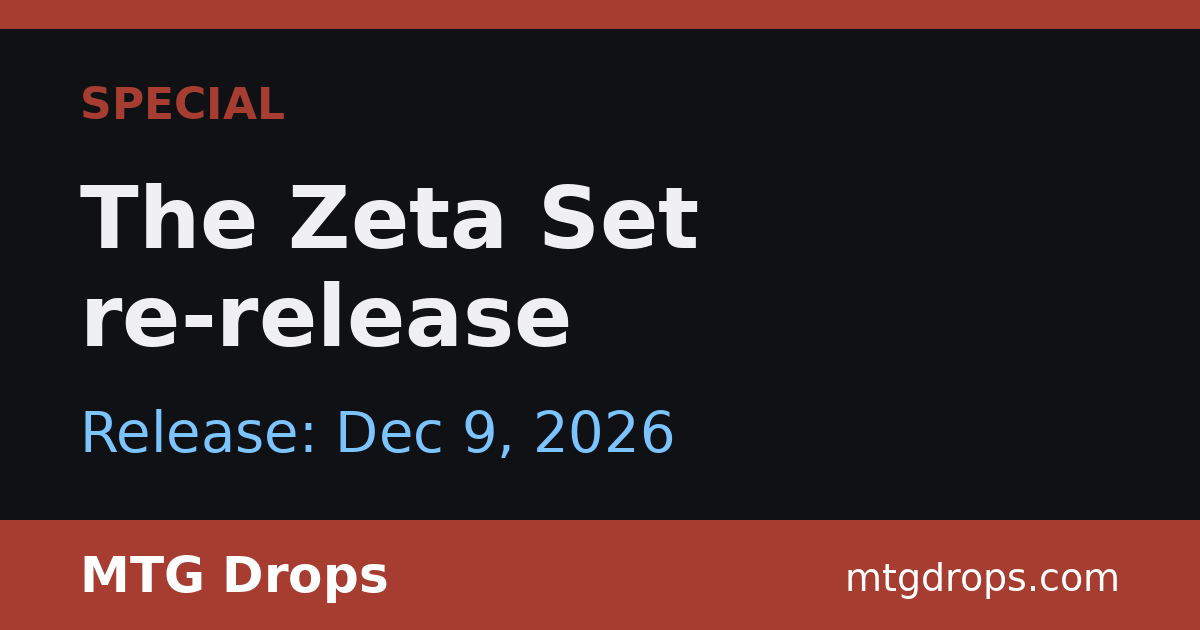
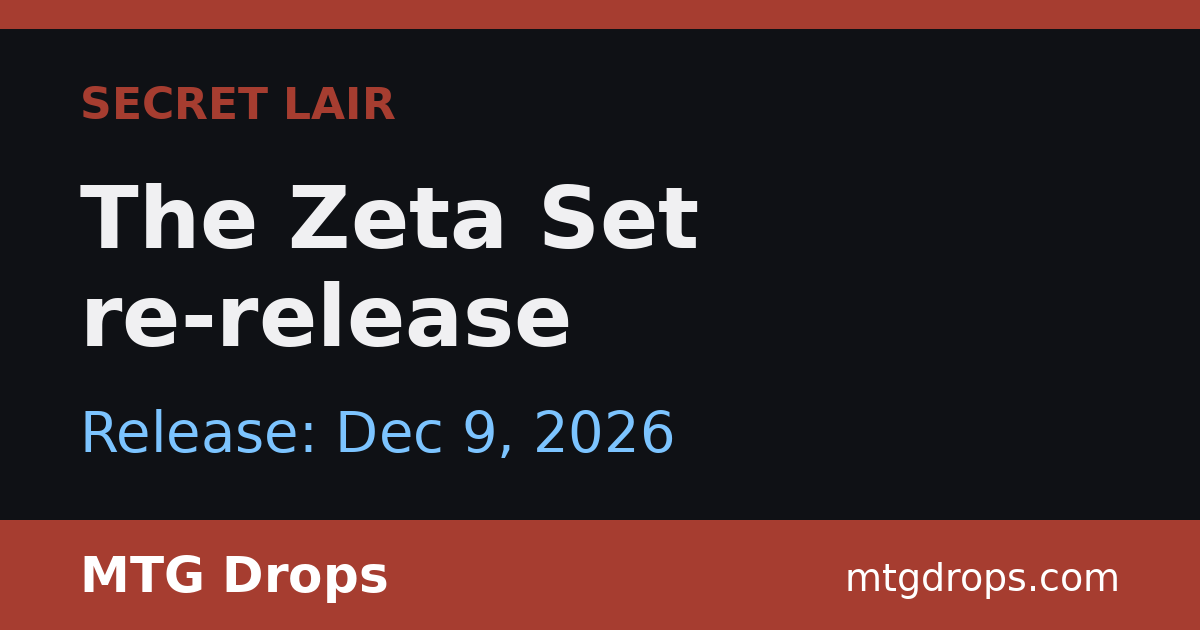
Draft: expand Zeta Set re-release and Spider-Mania leak pages
Zeta (Dec 9): official $19.92, 24-hour fulfilled window, 2H 2027 shipping, contents and Pauper notes from Wizards. Spider-Mania: keep Wait; label leaked date, commanders, contents and typical-MSRP comparison as unconfirmed with named sources. Not for merge until the owner OKs it.

Changed region(s): [[0.0925, 0.1206, 0.3392, 0.2111]]

diff --git a/build.py b/build.py
@@ -1018,6 +1018,122 @@ def _assert_published_picks(html_text, which):
     if "One drop:" not in which or "Two drops:" not in which: raise SystemExit("which-drops FAQ is missing the one/two labels")
     for line in PHASERS_UNPUBLISHED:
         if line in html_text or line in which: raise SystemExit("unpublished opinion rendered: " + line)
+
+# ---- Zeta Set re-release and Spider-Mania expansions (draft, Nov 24, 2026).
+# Official facts only from Wizards / Secret Lair sources. Spider-Mania leak details
+# are labeled as leaks and name their press sources. No new Buy/Skip verdicts.
+ZETA_ANN = "https://magic.wizards.com/en/news/announcements/chaos-vault-the-zeta-set-puts-the-playtest-in-your-hands"
+ZETA_UPDATE = "https://magic.wizards.com/en/news/announcements/an-update-on-the-zeta-set-sale"
+ZETA_PAUPER = "https://magic.wizards.com/en/news/announcements/on-the-zeta-set-in-pauper"
+SPM_WIKI = "https://mtg.wiki/page/Template:Upcoming_events"
+SPM_POLYGON = "https://www.polygon.com/magic-mtg-spider-man-commander-deck-christmas/"
+SPM_GAMER = "https://www.thegamer.com/magic-the-gathering-spider-man-commander-deck-leak/"
+ZETA_SPM_CHECKED = "Nov 24, 2026"
+
+def zeta_expand(r):
+    ann, upd, pau = phasers_link(ZETA_ANN, "Sep 1, 2026 announcement"), phasers_link(ZETA_UPDATE, "Oct 1, 2026 update"), phasers_link(ZETA_PAUPER, "On The Zeta Set in Pauper")
+    store = phasers_link(SL_STORE, "MagicSecretLair.com")
+    lead = (
+        f"<p><b>Quick answer (checked {ZETA_SPM_CHECKED}):</b> Secret Lair x MSCHF: The Zeta Set goes on sale again "
+        f"on Dec 9, 2026, for a single 24-hour order window at $19.92 on {store}. Wizards says everyone who orders "
+        f"during that window will have the order fulfilled. Estimated shipping is the second half of 2027. "
+        f"Sources: {ann} and {upd}.</p>")
+    mid = (
+        f"<h2>How the Dec 9 order window works</h2>"
+        f"<p>Per Wizards' {upd}, the re-release is a single 24-hour limited order window on Dec 9, 2026, at {store}. "
+        "Every order placed during that window will be fulfilled, so it is not a race for a fixed pile of leftover stock.</p>"
+        "<p>Wizards has not published a start time for the window, and has not announced a purchase limit. "
+        "Unofficial write-ups sometimes mention 9 AM PT; that hour is not in the Wizards articles, so it is not listed here as a fact. "
+        "Check the official store on Dec 9, or add the date to your calendar below.</p>"
+        f"<h2>When will it ship?</h2>"
+        f"<p>Wizards estimates these Dec 9 orders will begin shipping in the second half of 2027, and says more timing "
+        f"details will come closer to the sale ({upd}). That is not a Christmas 2026 gift.</p>")
+    deepen = (
+        f"<h2>Is the Zeta Set legal, and what about Pauper?</h2>"
+        f"<p>These are reprints with playtest-inspired treatments. The {ann} notes that common cards from this release "
+        f"will affect Pauper legality. In the {pau} article (Sep 4, 2026), Gavin Verhey wrote for the Pauper Format Panel "
+        "that the twelve cards printed at common for the first time in this set are legal in tabletop Pauper as of Sep 7, 2026 "
+        "(Magic Online followed on Sep 23, 2026). Narcomoeba and Price of Progress were banned from Pauper when that took effect.</p>"
+        f"<h2>Add Dec 9 to your calendar</h2>"
+        f"<p>The re-release is already on our calendar as an all-day event on Dec 9, 2026, because Wizards has not published a start hour. "
+        f"{ics_link('calendar.ics')} for every release, or {ics_link('secret-lair.ics')} for Secret Lair dates only.</p>")
+    faqs = [
+        ("When does the Zeta Set go on sale again?",
+         f"On Dec 9, 2026, for a single 24-hour limited order window at {store}. Wizards says everyone who orders during that window will have it fulfilled. Source: {upd}."),
+        ("How much is the Zeta Set?",
+         f"$19.92 at {store}, per Wizards' {ann}."),
+        ("What time does the Zeta Set window open?",
+         "Wizards has confirmed a 24-hour window on Dec 9, 2026, but has not published a start time. We are not treating unofficial 9 AM PT mentions as official."),
+        ("When will Zeta Set orders ship?",
+         f"Wizards estimates Dec 9 orders will begin shipping in the second half of 2027, with more timing details closer to the sale. Source: {upd}."),
+        ("Is there a purchase limit?",
+         "Wizards has not announced a purchase limit for the Dec 9 window."),
+        ("Will the Zeta Set arrive by Christmas?",
+         "No. Wizards estimates these orders will begin shipping in the second half of 2027, so this is not a Christmas 2026 gift."),
+        (f"Should I buy {short_name(r)}?", E(r["note"])),
+        ("What's in the Zeta Set?",
+         "Each copy is one Zeta Booster with 7 randomized cards: 3 commons, 2 uncommons, 1 wildcard of any rarity, and 1 rare or mythic rare. There are 121 different cards in the set. Most use a black-and-white photocopy treatment; 10% are photocopy negative and 5% have the color banding treatment. Source: Wizards' Sep 1, 2026 announcement."),
+    ]
+    return lead, mid, deepen, faqs
+
+def spider_mania_expand(r):
+    poly, gamer, wiki = phasers_link(SPM_POLYGON, "Polygon (Sep 25, 2026)"), phasers_link(SPM_GAMER, "TheGamer (Sep 28, 2026)"), phasers_link(SPM_WIKI, "mtg.wiki")
+    lead = (
+        f"<p><b>Quick answer (checked {ZETA_SPM_CHECKED}):</b> Wizards of the Coast has not officially announced a Spider-Mania Commander deck. "
+        f"A leak, first posted by @MTGOSalseo on X and reported by {poly} and {gamer}, gives a date of Dec 4, 2026. "
+        f"{wiki}'s upcoming-events list marks that date as tentative. Treat every detail below as unconfirmed until Wizards publishes it.</p>")
+    mid = (
+        "<h2>Is Spider-Mania real? What Wizards has (and hasn't) confirmed</h2>"
+        "<table><tr><th>Detail</th><th>Status</th><th>Source</th></tr>"
+        f"<tr><td>Official announcement of a Spider-Mania Commander deck</td><td>None found</td><td>No match on magic.wizards.com as of {ZETA_SPM_CHECKED}</td></tr>"
+        f"<tr><td>Product name “Spider-Mania”</td><td>Leak / rumor</td><td>@MTGOSalseo on X, reported by {poly} and {gamer}</td></tr>"
+        f"<tr><td>Release date Dec 4, 2026</td><td>Leak; listed as tentative</td><td>Same leak; {wiki} upcoming events (tentative)</td></tr>"
+        f"<tr><td>Commanders, colors, card counts, Collector’s Edition</td><td>Leak / rumor</td><td>Same press reports of the leak</td></tr>"
+        f"<tr><td>MSRP</td><td>Not in the leak; not announced</td><td>{gamer}: no price is listed in the leak</td></tr>"
+        "<tr><td>Preorder or retailer ship date</td><td>None published</td><td>—</td></tr>"
+        "</table>"
+        "<h2>Leaked contents and commanders</h2>"
+        f"<p>The following details are from the leak reported by {poly} and {gamer}. They are not official.</p>"
+        "<ul>"
+        "<li><b>Name:</b> Spider-Mania (leak)</li>"
+        f"<li><b>Colors:</b> Jeskai (white, blue, and red), per {poly}</li>"
+        f"<li><b>Face commander:</b> Spider-Man / Peter Parker (leak; {poly}, {gamer})</li>"
+        f"<li><b>Backup commanders:</b> Miles Morales and Spider-Gwen / Gwen Stacy (leak; same)</li>"
+        "<li><b>Cards with new art:</b> 50, of which 30 are new cards and 20 are reprints from Marvel’s Spider-Man and Marvel Super Heroes (leak; same)</li>"
+        "</ul>"
+        "<h2>Leaked price: regular vs collector edition</h2>"
+        f"<p>No price appears in the leak itself, per {gamer}. Until Wizards lists an MSRP, the price table on this page stays TBA.</p>"
+        f"<p>{gamer} noted that Universes Beyond precons typically have an MSRP of about $74.99 for the regular deck and $159.99 for the Collector’s Edition. "
+        "That is a comparison to other products, not a leaked or official Spider-Mania price.</p>"
+        f"<p>{poly} reported that the leak also describes a Collector’s Edition in which all cards use the surge foil treatment. That edition is also unconfirmed.</p>")
+    darkhold = next((x for x in data if x["slug"] == "marvel-darkhold-destiny-commander"), None)
+    kit = next((x for x in data if x["slug"] == "countdown-kit-marvels-history-of-heroes"), None)
+    rel_bits = []
+    if darkhold: rel_bits.append(f'{plink(darkhold)} (2027)')
+    if kit: rel_bits.append(plink(kit))
+    rel_bits.append(f'<a href="{BASE}/guides/mtg-releases-fall-holiday-2026.html">every MTG product releasing this fall/holiday 2026</a>')
+    deepen = (
+        "<h2>Will it arrive by Christmas?</h2>"
+        "<p>Unknown. Wizards has not announced the product, and no retailer has published a ship date that we can cite. Do not count on it as a Christmas gift.</p>"
+        "<p>Related: " + ", ".join(rel_bits) + ".</p>")
+    faqs = [
+        ("Is the Spider-Mania Commander deck real?",
+         f"It is unconfirmed. Wizards has not announced it. A leak first posted by @MTGOSalseo on X, and reported by {poly} and {gamer}, describes the deck; {wiki} lists a tentative Dec 4, 2026 date. Last checked {ZETA_SPM_CHECKED}."),
+        ("When does the Spider-Man Commander deck come out?",
+         f"The leaked date is Dec 4, 2026. Wizards has not confirmed a release date. Sources: {poly}, {gamer}; {wiki} marks the date as tentative."),
+        ("How much will Spider-Mania cost?",
+         f"Wizards has not listed an MSRP, and {gamer} says no price appears in the leak. TheGamer noted that Universes Beyond precons typically cost about $74.99 regular / $159.99 Collector’s Edition; that is not a Spider-Mania price. This page keeps the price as TBA."),
+        ("Who are the Spider-Mania commanders?",
+         f"Only according to the leak: Peter Parker / Spider-Man as the face commander, with Miles Morales and Spider-Gwen / Gwen Stacy as backups, in Jeskai (white, blue, and red). Sources: {poly}, {gamer}. Not confirmed by Wizards."),
+        ("Is there a collector / foil edition?",
+         f"The leak, as reported by {poly}, describes a Collector’s Edition in which all cards are surge foil. Wizards has not confirmed it."),
+        ("Can I preorder Spider-Mania?",
+         "No official preorder is up. Wizards has not announced the product, so there is nothing official to preorder yet."),
+        (f"Should I buy {short_name(r)}?", E(r["note"])),
+        ("Is Commander also called EDH?", "Yes. Commander is also called EDH."),
+    ]
+    return lead, mid, deepen, faqs
+
 for r in data:
     sn = short_name(r); pu = f"{SITE_URL}/p/{r['slug']}.html"
     win = f"<p><b>Window:</b> {E(r['window'])}</p>" if r.get("window") else ""
@@ -1055,6 +1171,7 @@ for r in data:
                     "Yes, in some regions. Per Wizards' Nov 5, 2026 update, North American Commander decks may ship or arrive after the Nov 13 tabletop release. English decks in Europe may also arrive after Nov 13; French and German decks may arrive after Prerelease. Check your retailer or preorder ship date."))
     if r["type"] == "Commander Precon":
         faq.append(("Is Commander also called EDH?", "Yes. Commander is also called EDH."))
+    lead_html = mid_html = ""
     deepen_html = ""
     phasers_ld = []
     if r["slug"] == PHASERS_SLUG:
@@ -1069,6 +1186,16 @@ for r in data:
         faqhtml = "<h2>FAQ</h2>" + "".join(f"<h3>{E(q)}</h3><p>{a}</p>" for q, a in shown)
         phasers_ld = [{"@context": "https://schema.org", "@type": "FAQPage", "mainEntity": [
             {"@type": "Question", "name": q, "acceptedAnswer": {"@type": "Answer", "text": plain(a)}} for q, a in shown]}] + itemlists
+    elif r["slug"] == "zeta-set-rerelease":
+        lead_html, mid_html, deepen_html, shown = zeta_expand(r)
+        faqhtml = "<h2>FAQ</h2>" + "".join(f"<h3>{E(q)}</h3><p>{a}</p>" for q, a in shown)
+        phasers_ld = [{"@context": "https://schema.org", "@type": "FAQPage", "mainEntity": [
+            {"@type": "Question", "name": q, "acceptedAnswer": {"@type": "Answer", "text": plain(a)}} for q, a in shown]}]
+    elif r["slug"] == "spider-mania-commander":
+        lead_html, mid_html, deepen_html, shown = spider_mania_expand(r)
+        faqhtml = "<h2>FAQ</h2>" + "".join(f"<h3>{E(q)}</h3><p>{a}</p>" for q, a in shown)
+        phasers_ld = [{"@context": "https://schema.org", "@type": "FAQPage", "mainEntity": [
+            {"@type": "Question", "name": q, "acceptedAnswer": {"@type": "Answer", "text": plain(a)}} for q, a in shown]}]
     else:
         faqhtml = "<h2>FAQ</h2>" + "".join(f"<h3>{E(q)}</h3><p>{E(a)}</p>" for q, a in faq)
         if r["type"] == "Commander Precon" or r["slug"] == "countdown-kit-marvels-history-of-heroes":
@@ -1133,7 +1260,7 @@ for r in data:
     crumbs = f'<nav class=bc aria-label=Breadcrumb><a href="{BASE}/">MTG Drops</a> › {(f'<a href="{BASE}/secret-lair.html">Secret Lair</a>' if r["type"] == "Secret Lair" else E(r["type"]))} › {E(sn)}</nav>{hubl}'
     desc = r.get("meta_desc") or f"{sn} release date: {nice_date(r)}. " + r["note"]
     page(title_for(r), desc,
-         f'{crumbs}<span class=t>{E(r["type"])}</span><h1>{E(r["name"])}</h1><p><b>Release:</b> {nice_date(r)} ({E(r["status"])}){f" · <b>Prerelease:</b> {E(r['prerelease'])}" if r.get("prerelease") else ""}{" · <b>Sold out</b> at the official store" if r.get("sold_out") else ""}{" · <b>Delayed</b>: stock may arrive after this date" if r.get("delayed") else ""}</p>{win}<h2>Price</h2>{ptab}{contents}{facts}<h2>Buy or skip?</h2><p>{E(r["note"])}{(" " + E(r["buy_guide_intro"])) if r.get("buy_guide_intro") else ""}</p>{("<ul>" + "".join(f"<li><b>{E(k)}:</b> {E(v)}</li>" for k, v in r["buy_guide"]) + "</ul>") if r.get("buy_guide") else ""}{pre_html}{f"<p><i>{E(r['preorder_call'])}</i></p>" if r.get("preorder_call") else ""}{("<p>Other Commander decks coming in 2027: " + ", ".join(plink(x, x["name"]) + f" ({nice_date(x)})" for x in h_cmd27 if x is not r) + ".</p>") if r.get("preorder_call") and r in h_cmd27 else ""}{deepen_html}<p><a href="{tcg(r.get("tcg_query") or r["name"])}" rel="sponsored nofollow">Check prices on TCGplayer</a></p>{amz_btn(r)}<p class=disc><small>{DISCLOSURE_HTML}</small></p>{tinfo}{howto}{relhtml}{y27}{faqhtml}<p><small>Source: <a href="{E(r["source"])}">{E(r["source"])}</a></small></p>{fsrc}{checked(r, with_sources=False)}<p><small>Last updated: {tdate()}</small></p>{FORM}',
+         f'{crumbs}<span class=t>{E(r["type"])}</span><h1>{E(r["name"])}</h1><p><b>Release:</b> {nice_date(r)} ({E(r["status"])}){f" · <b>Prerelease:</b> {E(r['prerelease'])}" if r.get("prerelease") else ""}{" · <b>Sold out</b> at the official store" if r.get("sold_out") else ""}{" · <b>Delayed</b>: stock may arrive after this date" if r.get("delayed") else ""}</p>{win}{lead_html}<h2>Price</h2>{ptab}{contents}{facts}{mid_html}<h2>Buy or skip?</h2><p>{E(r["note"])}{(" " + E(r["buy_guide_intro"])) if r.get("buy_guide_intro") else ""}</p>{("<ul>" + "".join(f"<li><b>{E(k)}:</b> {E(v)}</li>" for k, v in r["buy_guide"]) + "</ul>") if r.get("buy_guide") else ""}{pre_html}{f"<p><i>{E(r['preorder_call'])}</i></p>" if r.get("preorder_call") else ""}{("<p>Other Commander decks coming in 2027: " + ", ".join(plink(x, x["name"]) + f" ({nice_date(x)})" for x in h_cmd27 if x is not r) + ".</p>") if r.get("preorder_call") and r in h_cmd27 else ""}{deepen_html}<p><a href="{tcg(r.get("tcg_query") or r["name"])}" rel="sponsored nofollow">Check prices on TCGplayer</a></p>{amz_btn(r)}<p class=disc><small>{DISCLOSURE_HTML}</small></p>{tinfo}{howto}{relhtml}{y27}{faqhtml}<p><small>Source: <a href="{E(r["source"])}">{E(r["source"])}</a></small></p>{fsrc}{checked(r, with_sources=False)}<p><small>Last updated: {tdate()}</small></p>{FORM}',
          f"p/{r['slug']}.html", main_ld + phasers_ld + [bc], noindex=bool(r.get("placeholder")), og=(card[1], 1200, 630) if card else None)
     if r["slug"] == PHASERS_SLUG: _assert_phasers_page(os.path.join("dist", f"p/{r['slug']}.html"))
     if r["slug"] == EL_SLUG: _assert_extra_life_page(os.path.join("dist", f"p/{r['slug']}.html"))
@@ -1629,7 +1756,9 @@ g_body = (f'<nav class=bc aria-label=Breadcrumb><a href="{BASE}/">MTG Drops</a> 
   + g_nov_html
   + g_bf_html
   + "<h2>Best picks for gifts</h2>" + (f'<p>Only products we already rate as a buy, and who each one suits. For whether to buy one now or wait until Black Friday, see <a href="#{G_BF_ID}">Black Friday 2026: buy now or wait</a>.</p><ul>' + "".join(f'<li><a href="{BASE}/p/{r["slug"]}.html">{E(short_name(r))}</a> ({nice_date(r)}): for {E(r["gift_for"])}.</li>' for r in g_gifts) + "</ul>" if g_gifts else "<p>No buy-rated products this season yet.</p>")
-  + "".join(f"<h2>{g_month_name(m)}</h2>" + ("".join(guide_item(r) for r in rs) if rs else "<p>Nothing scheduled yet.</p>") for m, rs in g_by.items())
+  + "".join(f"<h2>{g_month_name(m)}</h2>"
+  + (f'<p>The {plink(_spm)} is listed here for Dec 4, 2026 as an <b>unconfirmed leak</b>, not an official Wizards announcement. See that page for what press reports of the leak say, and what still has no official source.</p>' if m == "2026-12" and _spm.get("status") != "confirmed" else "")
+  + ("".join(guide_item(r) for r in rs) if rs else "<p>Nothing scheduled yet.</p>") for m, rs in g_by.items())
   + ("<h2>Announced, no date yet</h2><p>Announced but not yet scheduled, so these may or may not land before the end of 2026.</p>" + "".join(guide_item(r) for r in g_tba) if g_tba else "")
   + f'<p class=disc><small>{DISCLOSURE_HTML}</small></p>'
   + "<h2>FAQ</h2>" + "".join(f"<h3>{E(q)}</h3><p>{a}</p>" for q, a in g_faq)
